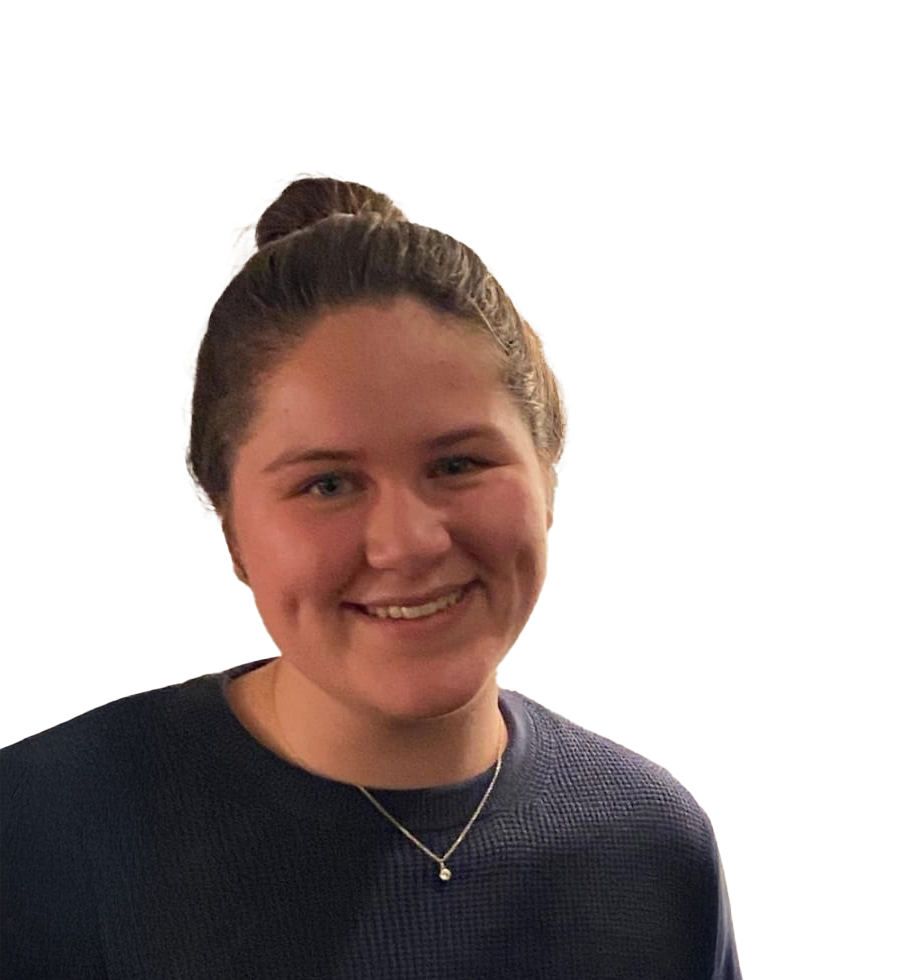
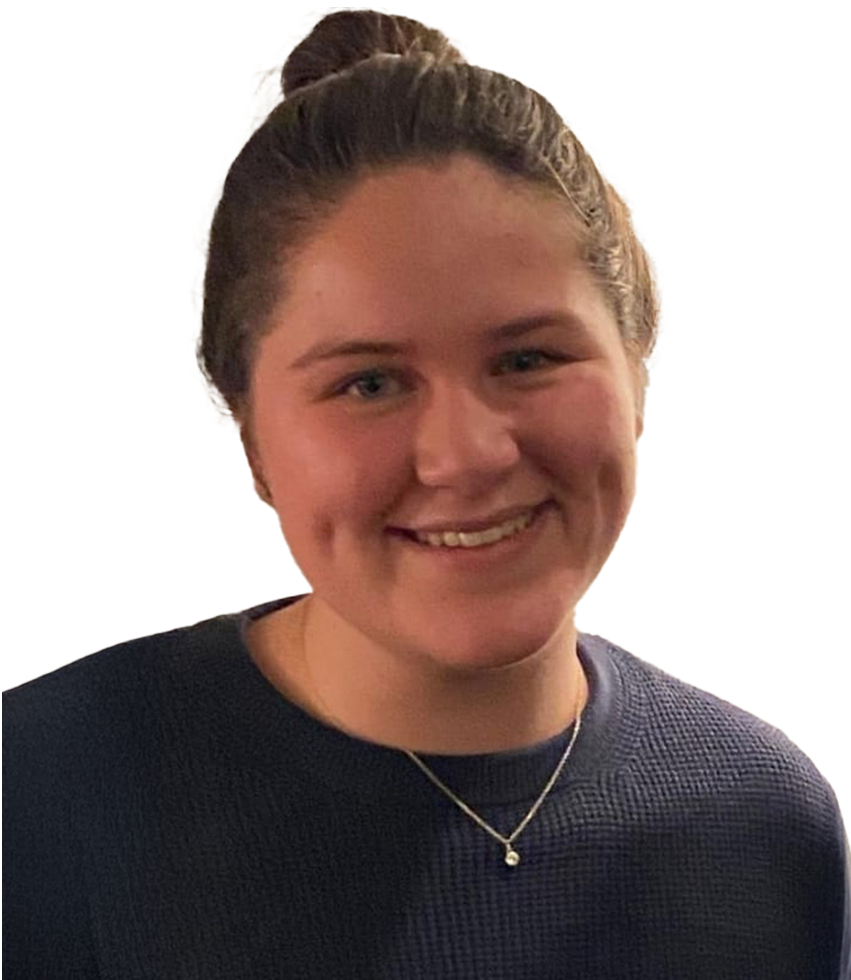
fix: kleine aanpassingen

diff --git a/designer_component.html b/designer_component.html
@@ -278,6 +278,7 @@
             data-slides='["images/moodboard_bach.png"]'
             data-tags="Brand,Guidelines"
             data-title="Felicks — Branding"
+            data-tools="Figma"
           >
             <div class="overlap-group">
               <img
@@ -298,6 +299,7 @@
             data-slides='["images/moodboard_lab2.jpg"]'
             data-tags="Moodboard,Visuals"
             data-title="2Check — Branding"
+            data-tools="Illustrator"
           >
             <div class="overlap-group">
               <img
@@ -318,6 +320,7 @@
             data-slides='["images/moodboard_lab1.jpg"]'
             data-tags="Palette,Layout"
             data-title="Nevah — Branding"
+            data-tools="Illustrator"
           >
             <div class="overlap-group">
               <img
@@ -338,6 +341,7 @@
             data-slides='["images/moodboard_creatie1.png"]'
             data-tags="Grid,Logo,System"
             data-title="Forcia — Branding"
+            data-tools="Illustrator"
           >
             <div class="overlap-group">
               <img

diff --git a/about.html b/about.html
@@ -184,7 +184,7 @@
           <a href="profiles.html"
             ><img
               class="profile-image"
-              src="images/double_exposure.png"
+              src="images/Hannelore_1.png"
               alt="Profile"
           /></a>
         </div>
